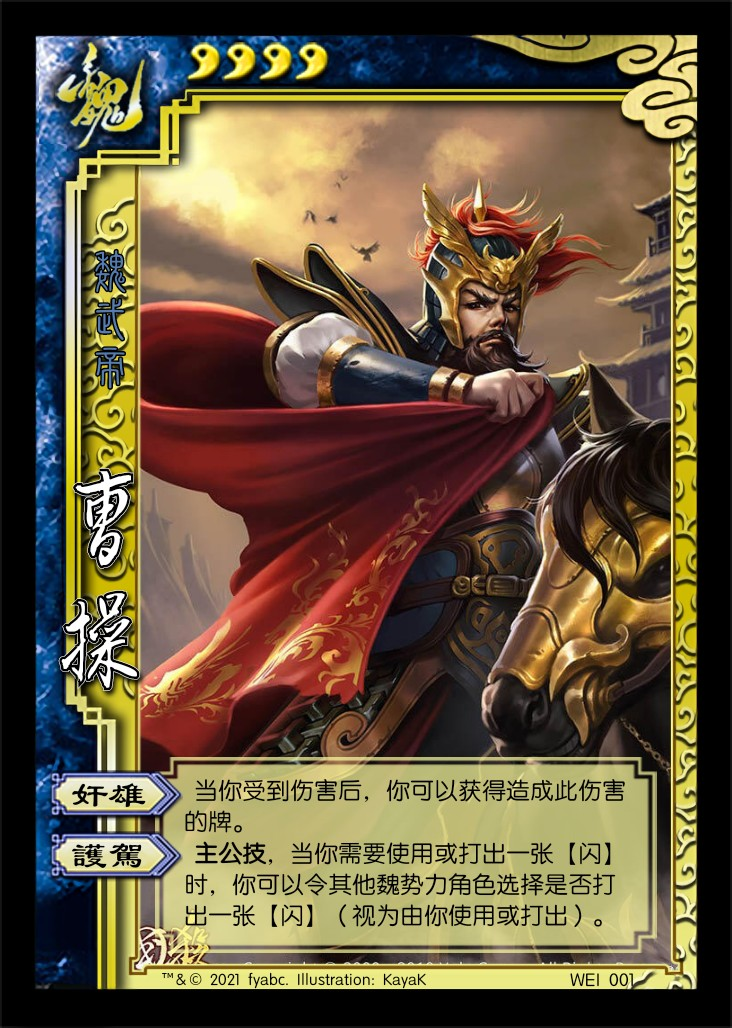
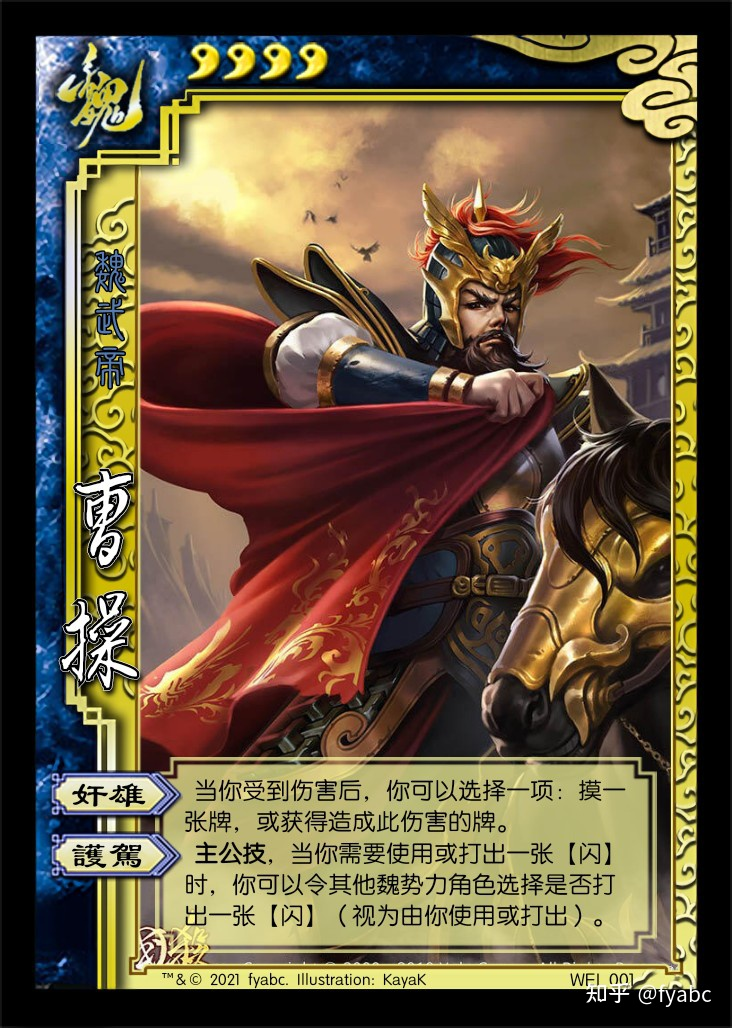
Complete ext1 heroes.

Changed region(s): [[0.3306, 0.7471, 0.8716, 0.8093], [0.8115, 0.9339, 0.9617, 0.9961], [0.2404, 0.7782, 0.3005, 0.8093]]

diff --git a/SanGuoSha/SGS-RebirthProject/standard.md b/SanGuoSha/SGS-RebirthProject/standard.md
@@ -95,7 +95,7 @@
 ## 武将牌
 
 1. ![曹操](./assets/images/heroes/曹操.jpg) 曹操 男 魏 4体力 称号：魏武帝
-   1. 【奸雄】：当你受到伤害后，你可以获得造成此伤害的牌。
+   1. 【奸雄】：当你受到伤害后，你可以选择一项：摸一张牌，或获得造成此伤害的牌。
    2. 【护驾】：**主公技**，当你需要使用或打出一张【闪】时，你可以令其他魏势力角色选择是否打出一张【闪】（视为由你使用或打出）。
 
    > 未作改动。

diff --git a/SanGuoSha/SGS-RebirthProject/ext2.md b/SanGuoSha/SGS-RebirthProject/ext2.md
@@ -17,6 +17,9 @@
 |     ♣     | **迁都** |       |       |       |       |       |       |       |       |       |       | **铁索** |       |
 |     ♦     |  *手戟*  |       |       |       |       |       |       |       |       |       |       |          |  *+2* |
 
+统计： 总 164，标+EX 112，扩展2 52
+注：括号内为扩展2牌数量
+
 ### 游戏牌说明
 
 1. 【迁都】：锦囊，普通  
